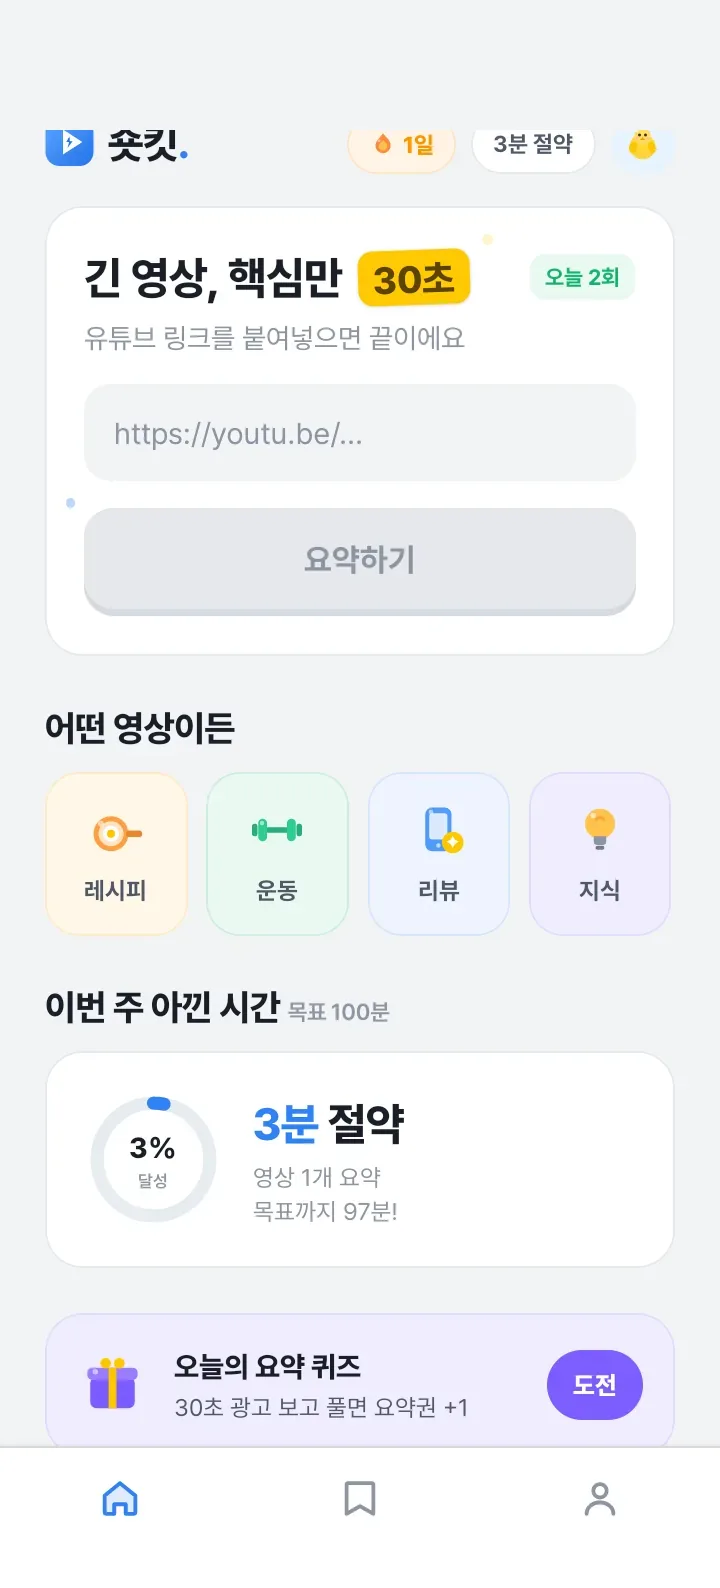
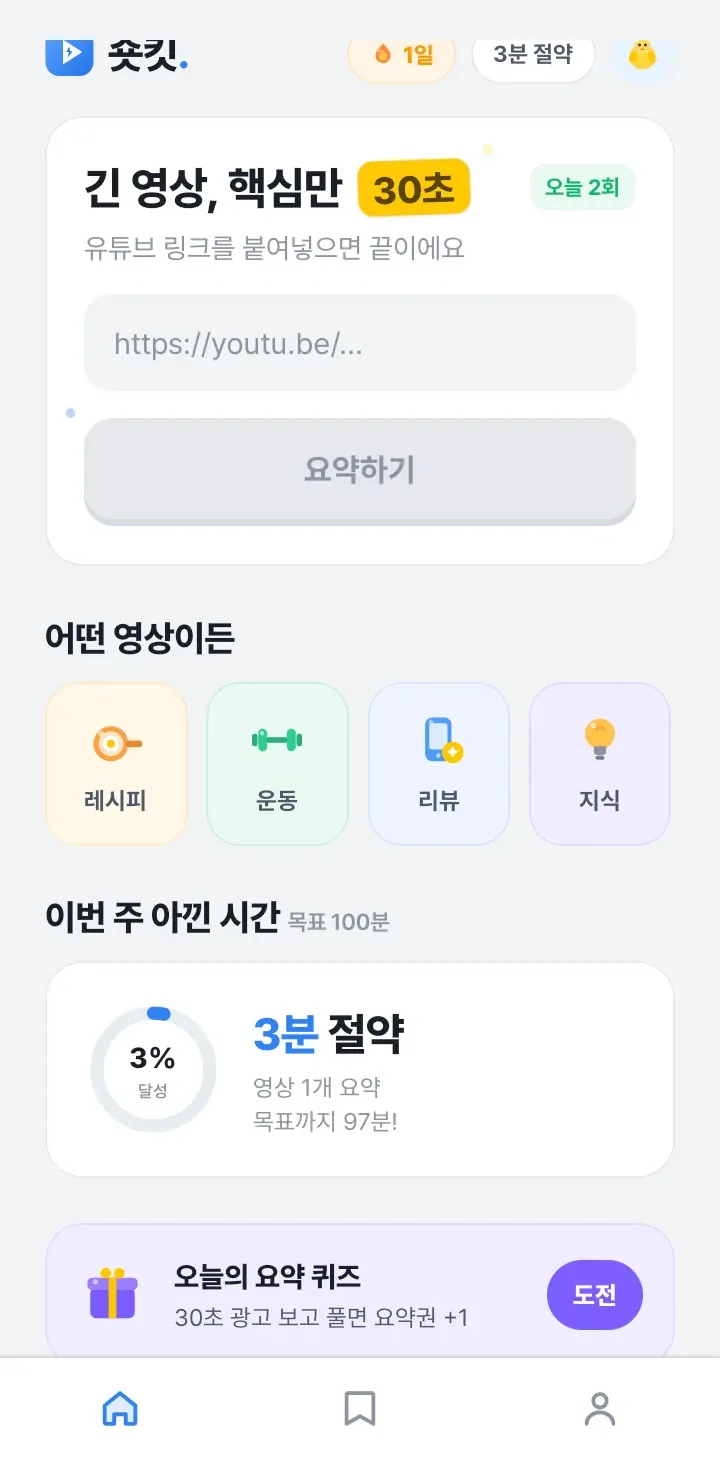
fix(shortkit): 폰 상단 잘림 — 라운드 축소로 근본 해결(여백 악순환 탈출)
- 딜레마: 상단 여백↑ → 폰 비대해져 섹션 상단 잘림 / 여백↓ → 로고가 라운드 코너에 가림.
- 근본 원인: 폰 프레임 border-radius(44px)가 상단 콘텐츠를 깎음.
- 해결: 숏킷만 border-radius 44→26px(shot 30→18px) 축소 → 곡선이 상단 콘텐츠 덜 깎음.
  이미지 여백도 최소화(상40·하30px, 1468px)로 폰 비대화 방지. #promo-shortkit 스코프.

diff --git a/src/sections/PromoSection.module.css b/src/sections/PromoSection.module.css
@@ -459,12 +459,17 @@
 :global(#promo-shortkit) .phone:hover {
   transform: rotate(0deg) translateY(-6px) scale(1.02);
 }
-/* 숏킷 스크린샷 상하 여백은 이미지 자체에 여백을 추가해 해결(shot-home.webp 720×1588).
-   ⚠ 상단 여백 130px[#f2f4f5 앱bg]: 프레임 라운드 코너(44px)+축소배율 고려해 넉넉히 →
-      "숏킷" 로고가 곡선에 가려지지 않게. object-position:top이라 상단은 안 잘림.
-   ⚠ 하단 여백 60px[#ffffff 탭바색과 동일→이음매 선 없음]. 비율 2.206>프레임이라
-      하단만 미세 크롭(흰 여백이라 무해). 원본 하단 OS바 잔재(#caccce)는 크롭 제거.
-   베젤은 기본 10px 유지(테두리 두꺼워지지 않음). */
+/* 숏킷 폰: 상단 콘텐츠(로고)가 프레임 라운드 코너에 가리는 문제는, 여백을 키우면
+   폰이 비대해져 섹션 상단이 잘리는 역효과가 난다. → 근본 해법은 라운드 축소.
+   숏킷만 border-radius를 44→22px로 줄여 곡선이 상단 콘텐츠를 덜 깎게 한다.
+   덕분에 적은 여백(이미지 상40·하30px)으로도 로고가 안 가리고 폰도 비대해지지 않는다.
+   하단 여백은 탭바색(#fff)과 동일해 이음매 선 없음, OS바 잔재는 크롭 제거. */
+:global(#promo-shortkit) .phone {
+  border-radius: 26px;
+}
+:global(#promo-shortkit) .phoneShot {
+  border-radius: 18px;
+}
 
 /* 글래스 칩(홍보웹 backdrop-blur 재현): 블루 무대 위 반투명 흰 칩 + 블러.
    흰 배경이 아니라 유리질이라 텍스트는 흰색 유지(대비 확보). */
